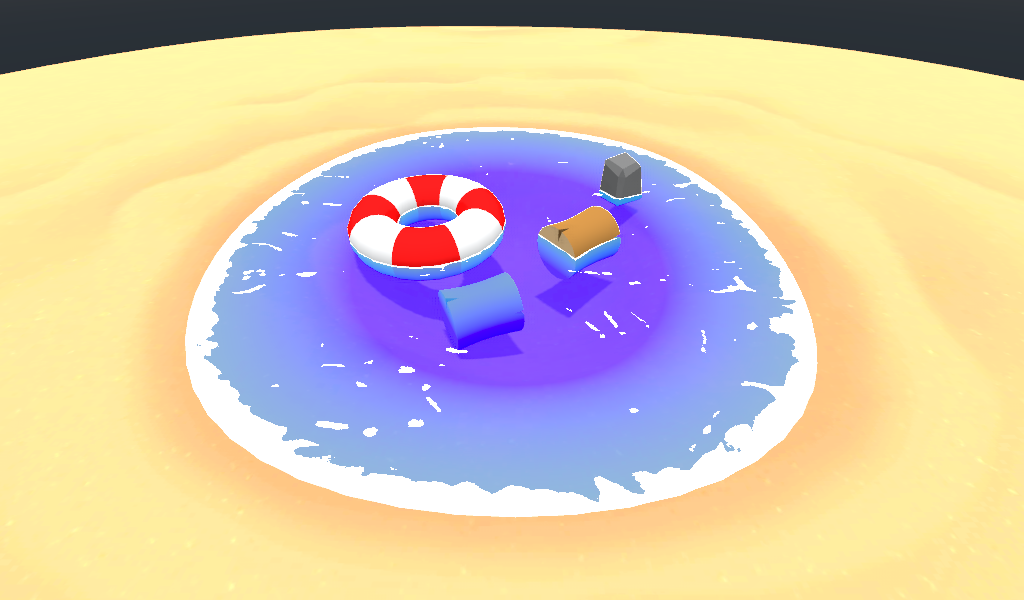
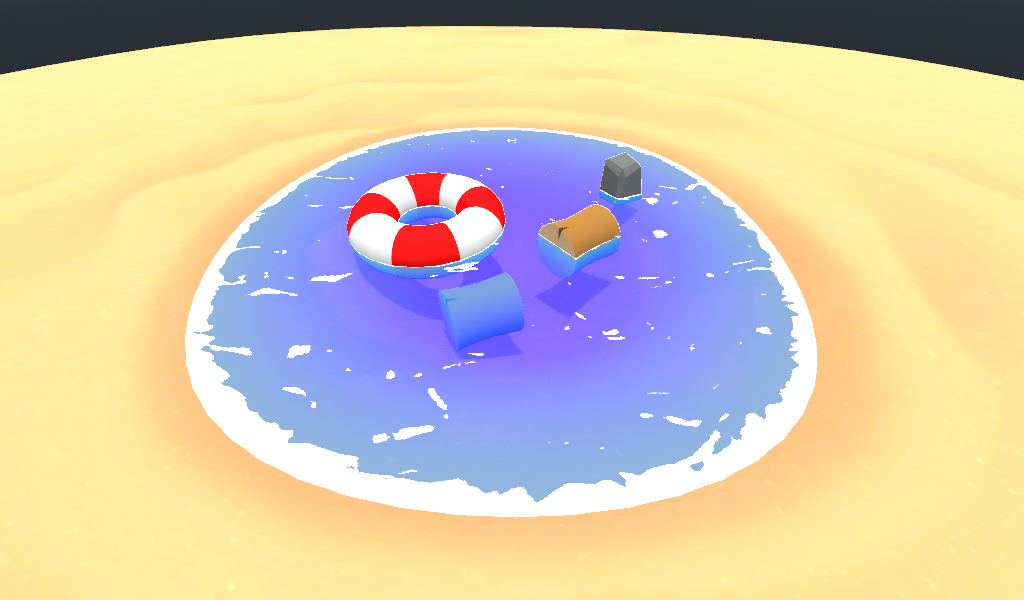
Fixed depth changing with the camera distance

diff --git a/README.md b/README.md
@@ -6,4 +6,4 @@ Ported from original Unity [Roystan's Toon Water Shader](https://roystan.net/art
 
 ## Resources:
 - Roystan's Article: https://roystan.net/articles/toon-water.html
-- Miziziziz Depth Buffer: https://youtu.be/PLCGL3RW548?t=1164
+- Bastiaan Olij Depth Buffer: https://www.youtube.com/watch?v=Jq3he9Lbj7M
